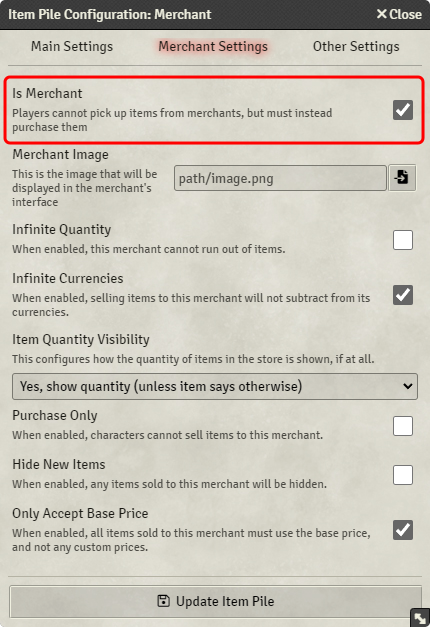
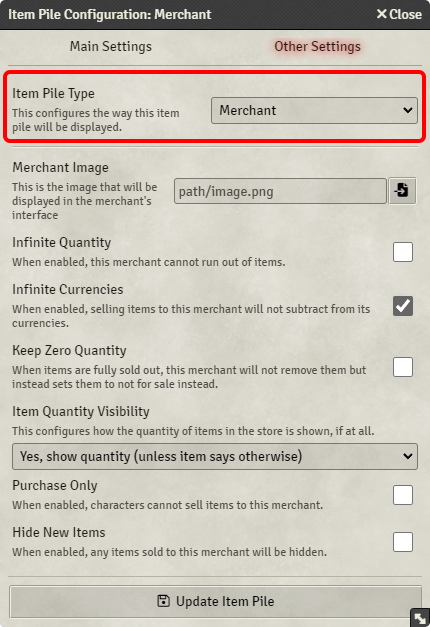
documentation, style changes

diff --git a/src/API/private-api.js b/src/API/private-api.js
@@ -1287,7 +1287,7 @@ export default class PrivateAPI {
    */
   static async _preloadItemPileFiles(tokenDocument) {
 
-    if (!PileUtilities.isValidItemPile(tokenDocument)) return false;
+    if (!PileUtilities.isItemPileContainer(tokenDocument)) return false;
 
     const pileData = PileUtilities.getActorFlagData(tokenDocument);
 
@@ -1540,7 +1540,7 @@ export default class PrivateAPI {
       const sourceUuid = Utilities.getUuid(dropData.source);
       const targetUuid = Utilities.getUuid(dropData.target);
 
-      if (Hooks.call(CONSTANTS.HOOKS.ITEM.PRE_GIVE, dropData.source, dropData.target, dropData.itemData, game.user.id) === false) {
+      if (Hooks.call(CONSTANTS.HOOKS.ITEM.PRE_GIVE, dropData.source, dropData.target, dropData.itemData, user.id) === false) {
         return;
       }
 
@@ -1548,7 +1548,7 @@ export default class PrivateAPI {
         Helpers.custom_notify(game.i18n.format("ITEM-PILES.Notifications.ItemTransferred", {
           source_actor_name: dropData.source.name, target_actor_name: dropData.target.name, item_name: item.name
         }));
-        Hooks.callAll(CONSTANTS.HOOKS.ITEM.GIVE, dropData.source, dropData.target, [dropData.itemData], game.user.id);
+        Hooks.callAll(CONSTANTS.HOOKS.ITEM.GIVE, dropData.source, dropData.target, dropData.itemData, game.user.id);
         return this._transferItems(sourceUuid, targetUuid, [dropData.itemData.item], game.user.id)
       }
 
@@ -1657,19 +1657,19 @@ export default class PrivateAPI {
     });
 
     if (accepted) {
-      Hooks.callAll(CONSTANTS.HOOKS.ITEM.GIVE, sourceActor, targetActor, [itemData], game.user.id);
       await PrivateAPI._addItems(targetUuid, [itemData], game.user.id);
     }
 
     return ItemPileSocket.executeForUsers(ItemPileSocket.HANDLERS.GIVE_ITEMS_RESPONSE, [userId], {
-      userId: game.user.id, accepted, sourceUuid, itemData
+      userId: game.user.id, accepted, sourceUuid, targetUuid, itemData
     });
 
   }
 
-  static async _giveItemsResponse({ userId, accepted, sourceUuid, itemData } = {}) {
+  static async _giveItemsResponse({ userId, accepted, sourceUuid, targetUuid, itemData } = {}) {
     const user = game.users.get(userId);
     if (accepted) {
+      await ItemPileSocket.callHook(CONSTANTS.HOOKS.ITEM.GIVE, sourceUuid, targetUuid, itemData, game.user.id, userId)
       await PrivateAPI._removeItems(sourceUuid, [itemData], game.user.id);
       return Helpers.custom_notify(game.i18n.format("ITEM-PILES.Notifications.GiveItemAccepted", { user_name: user.name }));
     }
@@ -1761,6 +1761,9 @@ export default class PrivateAPI {
       }
 
     }
+
+    const hookResult = Helpers.hooks.call(CONSTANTS.HOOKS.PILE.PRE_CLICK, pileDocument, interactingActor, game.user.id);
+    if (hookResult === false) return false;
 
     return this._renderItemPileInterface(pileDocument.uuid, { inspectingTargetUuid: interactingActor?.uuid });
 

diff --git a/src/module.js b/src/module.js
@@ -12,7 +12,6 @@ import ChatAPI from "./API/chat-api.js";
 import PrivateAPI from "./API/private-api.js";
 import * as Helpers from "./helpers/helpers.js";
 import runMigrations from "./migrations.js"
-import ItemPileConfig from "./applications/item-pile-config/item-pile-config.js";
 
 Hooks.once("init", async () => {
   registerHotkeysPre();
@@ -27,7 +26,11 @@ Hooks.once("ready", () => {
 
     game.itempiles = {
       API,
-      hooks: CONSTANTS.HOOKS
+      hooks: CONSTANTS.HOOKS,
+      flags: CONSTANTS.FLAGS,
+      pile_types: CONSTANTS.PILE_TYPES,
+      pile_flag_defaults: CONSTANTS.PILE_DEFAULTS,
+      item_flag_defaults: CONSTANTS.ITEM_DEFAULTS,
     };
     window.ItemPiles = {
       API: API
@@ -79,11 +82,6 @@ Hooks.once(CONSTANTS.HOOKS.READY, async () => {
     }
     applySystemSpecificStyles();
   }, 500);
-
-  // game.itempiles.API.renderItemPileInterface(game.actors.getName("Vault"));
-
-  // ItemPileConfig.show(game.actors.getName("Item Pile"))
-
 });
 
 Hooks.on(CONSTANTS.HOOKS.RESET_SETTINGS, async () => {

diff --git a/src/helpers/helpers.js b/src/helpers/helpers.js
@@ -266,24 +266,19 @@ export function abbreviateNumbers(number, decPlaces = 2) {
 
 
 export function timeSince(date) {
-
   const seconds = Math.floor((new Date() - date) / 1000);
-
   const intervals = {
-    "year": 31536000,
-    "month": 2592000,
-    "day": 86400,
-    "hour": 3600,
-    "minute": 60,
-    "second": 1
+    "d": 86400,
+    "h": 3600,
+    "m": 60
   }
 
   for (const [key, value] of Object.entries(intervals)) {
     const interval = seconds / value;
     if (interval > 1) {
-      const amount = Math.floor(interval);
-      return `${amount} ${key}${amount > 1 ? "s" : ""}`;
+      return Math.floor(interval) + key;
     }
   }
-  return "";
+
+  return Math.ceil(seconds) + "s";
 }

diff --git a/src/API/chat-api.js b/src/API/chat-api.js
@@ -149,13 +149,13 @@ export default class ChatAPI {
    *
    * @param source
    * @param target
-   * @param items
+   * @param item
    * @param userId
    * @returns {Promise}
    */
-  static async _outputGiveItem(source, target, items, userId) {
+  static async _outputGiveItem(source, target, item, userId) {
     if (game.user.id !== userId || !Helpers.getSetting(SETTINGS.OUTPUT_TO_CHAT)) return;
-    const itemData = await this._formatItemData(items);
+    const itemData = await this._formatItemData([item]);
     return this._giveChatMessage(source, target, itemData, userId);
   }
 

diff --git a/src/constants/constants.js b/src/constants/constants.js
@@ -131,10 +131,10 @@ const CONSTANTS = {
     },
 
     // Vault settings
-    cols: 9,
+    cols: 10,
     rows: 5,
     vaultExpansion: false,
-    baseExpansionCols: 4,
+    baseExpansionCols: 5,
     baseExpansionRows: 5,
     preventVaultAccess: false,
     vaultAccess: [],
@@ -180,6 +180,7 @@ CONSTANTS.HOOKS = {
     REVERT_FROM: module`revertFromItemPiles`,
     PRE_SPLIT_INVENTORY: module`preSplitItemPileContent`,
     SPLIT_INVENTORY: module`splitItemPileContent`,
+    PRE_CLICK: module`preClickItemPile`
   },
   ITEM: {
     PRE_DROP_DETERMINED: module`preDropItemDetermined`,

diff --git a/src/styles/styles.scss b/src/styles/styles.scss
@@ -813,11 +813,11 @@
   }
 
   .item-piles-log-deposit span {
-    color: green;
-    
+    color: #069606;
+
   }
 
   .item-piles-log-withdrawal span {
-    color: red;
+    color: #ad1616;
   }
 }

diff --git a/docs/hooks.md b/docs/hooks.md
@@ -39,6 +39,7 @@
   - [item-piles-openItemPileInventory](#item-piles-openItemPileInventory)
   - [item-piles-preSplitItemPileContent](#item-piles-preSplitItemPileContent)
   - [item-piles-splitItemPileContent](#item-piles-splitItemPileContent)
+  - [item-piles-preClickItemPile](#item-piles-preClickItemPile)
 
 - [Items](#Items)
   - [item-piles-preDropItemDetermined](#item-piles-preDropItemDetermined)
@@ -55,10 +56,14 @@
   - [item-piles-preCalculateTradeItems](#item-piles-preCalculateTradeItems)
   - [item-piles-preTradeItems](#item-piles-preTradeItems)
   - [item-piles-tradeItems](#item-piles-tradeItems)
+  - [item-piles-preGiveItem](#item-piles-preGiveItem)
+  - [item-piles-giveItem](#item-piles-giveItem)
 
 - [Attributes](#Attributes)
   - [item-piles-preAddAttributes](#item-piles-preAddAttributes)
   - [item-piles-addAttributes](#item-piles-addAttributes)
+  - [item-piles-preSetAttributes](#item-piles-preSetAttributes)
+  - [item-piles-setAttributes](#item-piles-setAttributes)
   - [item-piles-preRemoveAttributes](#item-piles-preRemoveAttributes)
   - [item-piles-removeAttributes](#item-piles-removeAttributes)
   - [item-piles-preTransferAttributes](#item-piles-preTransferAttributes)
@@ -147,6 +152,8 @@ and merchants.
 | options       | <code>object</code>                      | An object containing options regarding how to render the application                            |
 | dialogOptions | <code>object</code>                      | An object containing settings how the SvelteApplication behaves (separate from the application) |
 
+If the hook returns `false`, the action is interrupted.
+
 ### item-piles-openInterface
 
 Called after an item piles related interface has been opened. The supported interfaces are the ones for regular item
@@ -171,6 +178,8 @@ Called before an item piles related interface is closed.
 | source        | <code>Actor/TokenDocument</code>         | The item pile actor                                               |
 | recipient     | <code>Actor/TokenDocument,Boolean</code> | The actor that was involved in opening the interface              |
 | options       | <code>object</code>                      | An object containing options regarding how to close the interface |
+
+If the hook returns `false`, the action is interrupted.
 
 ### item-piles-closeInterface
 
@@ -479,6 +488,20 @@ Called after the content of an item pile has been split.
 
 ---
 
+### item-piles-preClickItemPile
+
+Called before resolving a click on an item pile token
+
+| Param            | Type                            | Description                                                    |
+|------------------|---------------------------------|----------------------------------------------------------------|
+| target           | <code>TokenDocument</code> | The item pile token that was clicked                           |
+| interactingActor | <code>Actor</code>             | The actor of the user that interacted with the item pile token |
+| userId           | <code>string/boolean</code>     | The ID of the user that clicked on the token                   |
+
+If the hook returns `false`, the action is interrupted.
+
+---
+
 ## Items
 
 ### item-piles-preDropItemDetermined
@@ -669,6 +692,8 @@ Called before a trade between a merchant and an actor has been finalized.
 | userId        | <code>string</code>         | The ID of the user that initiated this action             |
 | interactionId | <code>string/boolean</code> | The ID of this interaction, to identify ongoing transfers |
 
+If the hook returns `false`, the action is interrupted.
+
 ---
 
 ### item-piles-tradeItems
@@ -683,6 +708,36 @@ Called before a trade between a merchant and an actor has been finalized.
 | buyerUpdates  | <code>object</code>         | An object containing the updates to apply to the buyer    |
 | userId        | <code>string</code>         | The ID of the user that initiated this action             |
 | interactionId | <code>string/boolean</code> | The ID of this interaction, to identify ongoing transfers |
+
+---
+
+### item-piles-preGiveItem
+
+Called before the user has sent the request to give an item to another user's actor.
+
+| Param        | Type                | Description                                                  |
+|--------------|---------------------|--------------------------------------------------------------|
+| source       | <code>Actor</code>  | The source actor that will give the item                     |
+| target       | <code>Actor</code>  | The target actor that will receive the item                  |
+| item         | <code>Object</code> | The item data to be given                                    |
+| sourceUserId | <code>string</code> | The ID of the user that initiated this action                |
+| targetUserId | <code>string</code> | The ID of the user that will receive the request |
+
+If the hook returns `false`, the action is interrupted.
+
+---
+
+### item-piles-giveItem
+
+Called after a user gave an item to another user's actor.
+
+| Param         | Type                        | Description                                     |
+|---------------|-----------------------------|-------------------------------------------------|
+| source       | <code>Actor</code>  | The source actor that gave the item             |
+| target       | <code>Actor</code>  | The target actor that received the item         |
+| item         | <code>Object</code> | The item data that was given                    |
+| sourceUserId | <code>string</code> | The ID of the user that initiated this action   |
+| targetUserId | <code>string</code> | The ID of the user that accepted the given item |
 
 ---
 
@@ -709,6 +764,33 @@ Called after attributes on the target have been added to. Not called in the case
 | Param           | Type                             | Description                                                                                                     |
 |-----------------|----------------------------------|-----------------------------------------------------------------------------------------------------------------|
 | target          | <code>Actor/TokenDocument</code> | The target whose attributes' values has been added to                                                           |
+| attributeDeltas | <code>object</code>              | An object, where the keys are the attribute that was updated, and the value being the quantity that was changed |
+| userId          | <code>string</code>              | The ID of the user that initiated this action                                                                   |
+| interactionId   | <code>string/boolean</code>      | The ID of this interaction, to identify ongoing transfers                                                       |
+
+---
+
+### item-piles-preSetAttributes
+
+Called before attributes on the target are set. Not called in the case of a transfer.
+
+| Param         | Type                             | Description                                                                                                                  |
+|---------------|----------------------------------|------------------------------------------------------------------------------------------------------------------------------|
+| target        | <code>Actor/TokenDocument</code> | The target whose attribute's value will be set                                                                               |
+| actorUpdates  | <code>object</code>              | An object, where the keys are the attribute that is going to be updated, the value being the quantity is going to be changed |
+| interactionId | <code>string/boolean</code>      | The ID of this interaction, to identify ongoing transfers                                                                    |
+
+If the hook returns `false`, the action is interrupted.
+
+---
+
+### item-piles-setAttributes
+
+Called after attributes on the target have been set. Not called in the case of a transfer.
+
+| Param           | Type                             | Description                                                                                                     |
+|-----------------|----------------------------------|-----------------------------------------------------------------------------------------------------------------|
+| target          | <code>Actor/TokenDocument</code> | The target whose attributes' values has been set                                                                |
 | attributeDeltas | <code>object</code>              | An object, where the keys are the attribute that was updated, and the value being the quantity that was changed |
 | userId          | <code>string</code>              | The ID of the user that initiated this action                                                                   |
 | interactionId   | <code>string/boolean</code>      | The ID of this interaction, to identify ongoing transfers                                                       |

diff --git a/docs/vaults.md b/docs/vaults.md
@@ -2,4 +2,36 @@
 
 As with all other types of item piles, the Item Piles module only really show different UIs and behave differently depending on the configuration of the actor in question.
 
+By setting the actor to be a vault, you can get that classic World of Warcraft bank or Diablo stash feel:
+
+![Image showing where to configure the vault](images/vault-config.png)
+
 **Note:** You still need to enable it as an item pile in the Main Settings tab.
+
+## Vault interface
+
+After you have turned an actor into an item pile vault, you can click on the actor in the sidebar or double-click on the token in your scene to open the interface.
+
+![An example of a vault](images/vault-interface.png)
+
+You can drag and drop items from other characters, the right-hand item sidebar, or from compendiums into the UI, which will be represented in the grid space. If there is no more space left, you are prevented from dropping another item into it. If you select a token like if you were to [inspect an item pile as a character](basic-use.md#inspecting-pile-as-character), you can take items from the vault using that character.
+
+If you are viewing through a character, it will say so below the grid, and uou can take items by double-clicking on items or right-clicking on items and pressing "Take" in the context menu.
+
+As a GM, you can also manually adjust the currencies in the item pile by clicking the cogwheel in the bottom right. This cogwheel is not visible to anyone but GMs.
+
+## Expanders
+
+If `Enable Expansion Items` is turned on within the vault, the grid will have the number of columns and rows as configured with the `Layout` setting, but only a certain amount of them can actually have items in them. More columns and rows can be enabled through the `Base Expansion` setting which configures the base set of columns and rows enabled by default.
+
+However, in the configuration of items, you can set them to be `Vault Expander`s. When these items are added to a vault, they enable more columns and rows for you to use. They are not shown in the grid view, but in a separate tab.
+
+![An example of an item configured as a vault expansion](images/item-vault-expansion.png)
+
+## Vault Access
+
+If you give ownership of a vault to a player, they can move items around, deposit and withdraw items, and deposit and withdraw currency at will. However, if you want to create a collective vault for multiple players or characters, you can grant individual permissions per player or character through the Vault Access Editor.
+
+![The vault access editor showing a single character as the sole owner](images/vault-access-editor.png)
+
+If you so wish, you can allow people to deposit items, but not withdraw them - or simple just allow them to organize the items in the grid and nothing else.

diff --git a/changelog.md b/changelog.md
@@ -6,6 +6,10 @@
 - Added vault extenders - you can configure items to extend the space available in
 - Added chat message for when users give each other items
 - Added support for `true` and `false` in system item filters
+- Added more hooks:
+  - `item-piles-preClickItemPile`
+  - `item-piles-preGiveItem`
+  - `item-piles-giveItem`
 - Tweaked `game.itempiles.api.turnTokensIntoItemPiles` to use the default item pile's settings when converting tokens into item piles
 - Tweaked item piles containers to be the only tokens that get the additional buttons in its token HUD
 - Fixed trades between users not creating chat messages when concluded

diff --git a/docs/merchant.md b/docs/merchant.md
@@ -3,7 +3,7 @@
 As all piles created by Item Piles are actors, the module can show different UIs and behave differently depending on the
 configuration of the pile in question.
 
-By setting the actor to have "Is Merchant" enabled on its configuration:
+You can make a character into a merchant by setting the item pile type to Merchant:
 
 ![Image showing where to configure the merchant](images/merchant-config.png)
 
